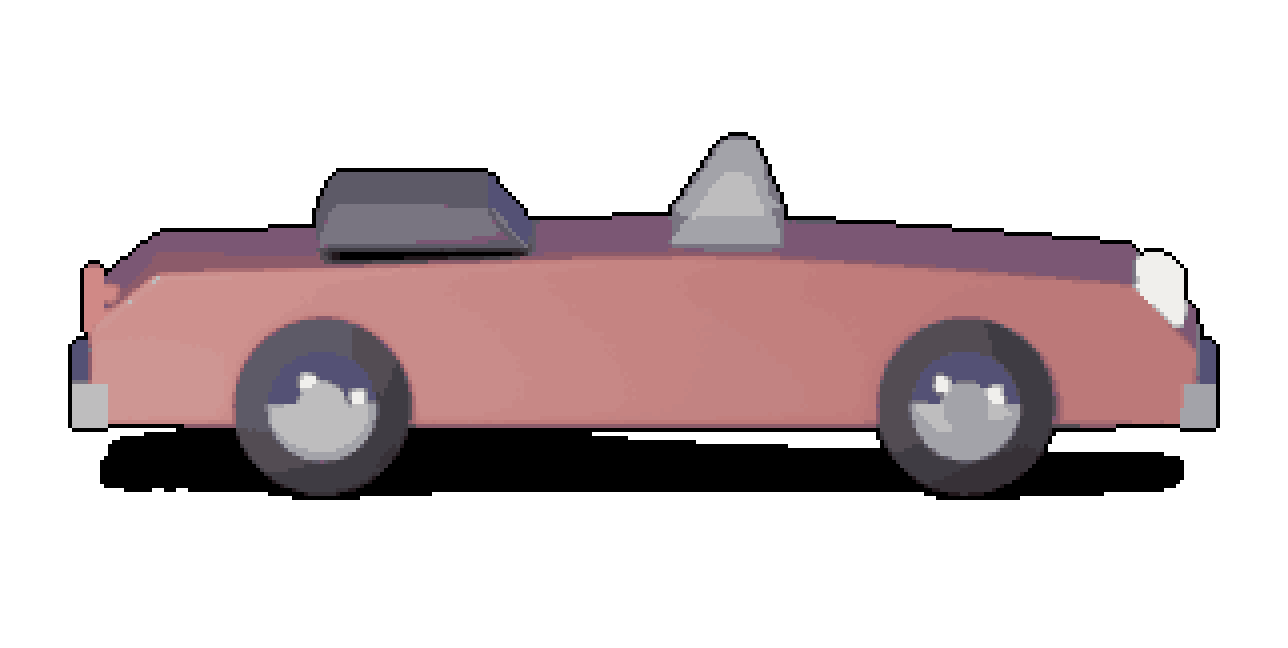
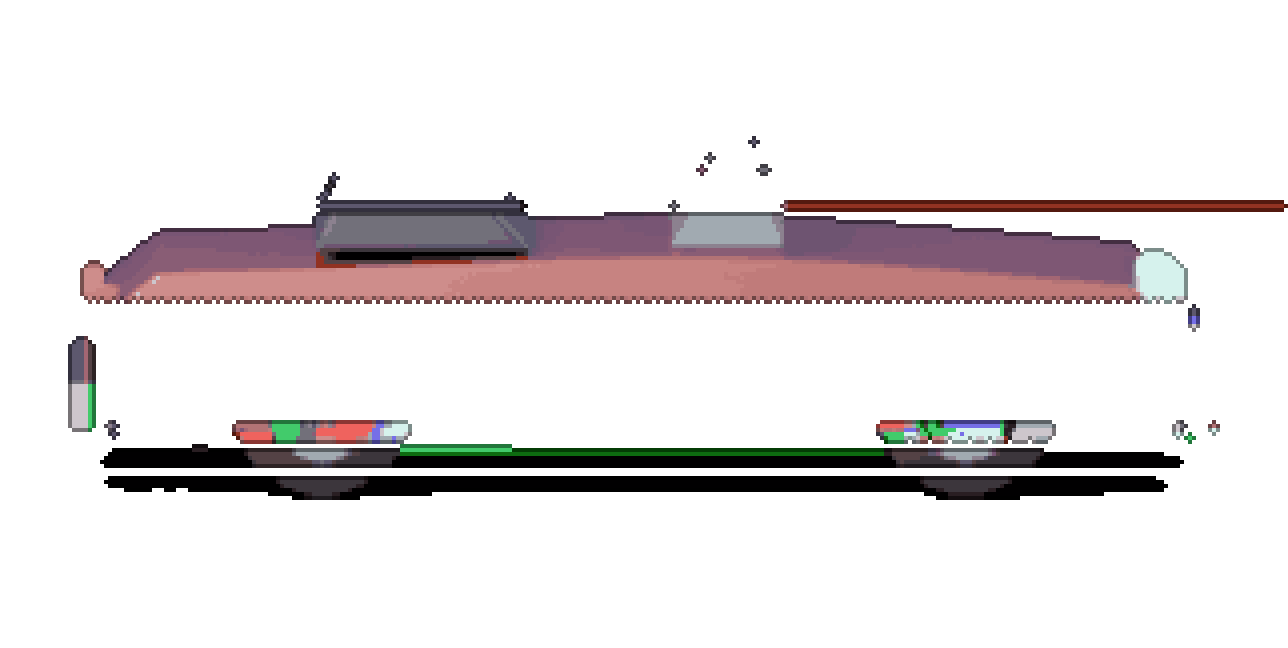
A04: fix outline colour and argument errors (committed by planner from the worker's edits)

Changed region(s): [[0.0621, 0.3704, 0.9627, 0.7716], [0.1242, 0.1852, 1.0, 0.3704], [0.0932, 0.3704, 0.1242, 0.4012]]

diff --git a/tools/art/pixelate.py b/tools/art/pixelate.py
@@ -62,11 +62,27 @@ def parse_args(argv):
         raise SystemExit("pixelate: unexpected argument %s" % arg)
     if not opts["in"] or not opts["out"]:
         raise SystemExit("pixelate: --in and --out are required")
-    opts["width"] = int(opts["width"])
-    opts["colors"] = int(opts["colors"])
-    opts["dither"] = float(opts["dither"])
+    try:
+        opts["width"] = int(opts["width"])
+    except ValueError:
+        raise SystemExit("pixelate: --width must be an integer, got %r"
+                         % opts["width"])
+    try:
+        opts["colors"] = int(opts["colors"])
+    except ValueError:
+        raise SystemExit("pixelate: --colors must be an integer, got %r"
+                         % opts["colors"])
+    try:
+        opts["dither"] = float(opts["dither"])
+    except ValueError:
+        raise SystemExit("pixelate: --dither must be a number, got %r"
+                         % opts["dither"])
     if opts["scale"] is not None:
-        opts["scale"] = int(opts["scale"])
+        try:
+            opts["scale"] = int(opts["scale"])
+        except ValueError:
+            raise SystemExit("pixelate: --scale must be an integer, got %r"
+                             % opts["scale"])
         if opts["scale"] < 1:
             raise SystemExit("pixelate: --scale must be >= 1")
     if opts["width"] < 1:
@@ -111,9 +127,15 @@ def load_rgba(path):
     """Load a PNG as a top-to-bottom (h, w, 4) float array of LINEAR rgb."""
     if not os.path.isfile(path):
         raise SystemExit("pixelate: no such input file: %s" % path)
-    image = bpy.data.images.load(path)
+    try:
+        image = bpy.data.images.load(path)
+    except RuntimeError as exc:
+        raise SystemExit("pixelate: cannot load %s: %s" % (path, exc))
     image.colorspace_settings.name = "Non-Color"
     w, h = image.size
+    if w < 1 or h < 1:
+        raise SystemExit("pixelate: cannot read %s as an image (size %dx%d)"
+                         % (path, w, h))
     flat = np.array(image.pixels[:], dtype=np.float64).reshape(h, w, 4)
     flat = flat[::-1]  # Blender stores rows bottom-to-top
     flat[:, :, :3] = srgb_to_linear(flat[:, :, :3])
@@ -230,26 +252,30 @@ def add_outline(rgb, alpha, outline_colour):
     padded_alpha[1:-1, 1:-1] = alpha
 
     opaque = padded_alpha >= 0.5
-    neighbours = []
-    up = np.zeros_like(opaque); up[1:, :] = opaque[:-1, :]
-    down = np.zeros_like(opaque); down[:-1, :] = opaque[1:, :]
-    left = np.zeros_like(opaque); left[:, 1:] = opaque[:, :-1]
-    right = np.zeros_like(opaque); right[:, :-1] = opaque[:, 1:]
-    neighbours = [up, down, left, right]
-    touches = np.zeros_like(opaque)
-    for mask in neighbours:
-        touches |= mask
+    # Colour of the pixel on each side, all read from the ORIGINAL padded rgb so a
+    # darkened outline pixel is never used as a source for its neighbour.
+    up = np.zeros_like(padded_rgb); up[1:, :] = padded_rgb[:-1, :]
+    down = np.zeros_like(padded_rgb); down[:-1, :] = padded_rgb[1:, :]
+    left = np.zeros_like(padded_rgb); left[:, 1:] = padded_rgb[:, :-1]
+    right = np.zeros_like(padded_rgb); right[:, :-1] = padded_rgb[:, 1:]
+    mask_up = np.zeros_like(opaque); mask_up[1:, :] = opaque[:-1, :]
+    mask_down = np.zeros_like(opaque); mask_down[:-1, :] = opaque[1:, :]
+    mask_left = np.zeros_like(opaque); mask_left[:, 1:] = opaque[:, :-1]
+    mask_right = np.zeros_like(opaque); mask_right[:, :-1] = opaque[:, 1:]
+    pairs = [(mask_up, up), (mask_down, down), (mask_left, left),
+             (mask_right, right)]
 
-    ring = (~opaque) & touches
+    ring = (~opaque) & (mask_up | mask_down | mask_left | mask_right)
+    out_rgb = padded_rgb.copy()
     filled = np.zeros_like(opaque)
-    for mask in neighbours:
+    for mask, src in pairs:
         take = ring & mask & (~filled)
-        padded_rgb[take] = padded_rgb[take] * 0.30
+        out_rgb[take] = src[take] * 0.30
         filled |= take
-    padded_alpha[ring] = 1.0
     if outline_colour is not None:
-        padded_rgb[ring] = outline_colour
-    return padded_rgb, padded_alpha
+        out_rgb[ring] = outline_colour
+    padded_alpha[ring] = 1.0
+    return out_rgb, padded_alpha
 
 
 # -------------------------------------------------------------------- run ---

diff --git a/tools/art/check_sprite.py b/tools/art/check_sprite.py
@@ -31,7 +31,10 @@ def parse_args(argv):
         if arg == "--max-colors":
             if i + 1 >= len(argv):
                 raise SystemExit("check_sprite: --max-colors needs a value")
-            max_colors = int(argv[i + 1])
+            try:
+                max_colors = int(argv[i + 1])
+            except ValueError:
+                raise SystemExit("check_sprite: --max-colors must be an integer")
             i += 2
             continue
         raise SystemExit("check_sprite: unexpected argument %s" % arg)
@@ -43,9 +46,17 @@ def main(argv):
     if not os.path.isfile(path):
         raise SystemExit("check_sprite: no such file: %s" % path)
 
-    image = bpy.data.images.load(path)
+    try:
+        image = bpy.data.images.load(path)
+    except RuntimeError as exc:
+        print("check_sprite: cannot load %s: %s" % (path, exc))
+        sys.exit(2)
     image.colorspace_settings.name = "Non-Color"
     w, h = image.size
+    if w < 1 or h < 1:
+        print("check_sprite: cannot read %s as an image (size %dx%d)"
+              % (path, w, h))
+        sys.exit(2)
     flat = np.array(image.pixels[:], dtype=np.float64).reshape(h, w, 4)
 
     alpha8 = np.round(np.clip(flat[:, :, 3], 0.0, 1.0) * 255.0).astype(np.uint8)
